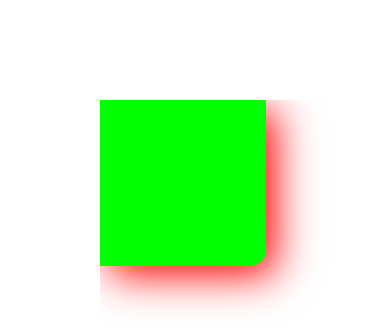
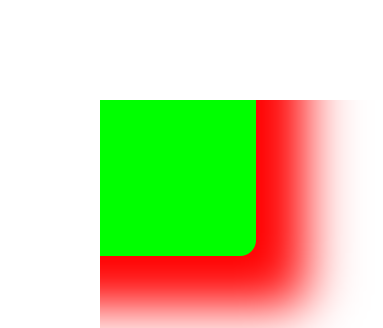
Bug 1514383 - Only clip the outermost Picture in a stacking context, since we sometimes need the inner pixels for filter rendering. r=gw
Differential Revision: https://phabricator.services.mozilla.com/D17595

--HG--
extra : moz-landing-system : lando

Changed region(s): [[0.2585, 0.3049, 0.8903, 1.0]]

diff --git a/webrender/src/display_list_flattener.rs b/webrender/src/display_list_flattener.rs
@@ -1380,7 +1380,7 @@ impl<'a> DisplayListFlattener<'a> {
             leaf_pic_index,
             leaf_composite_mode.into(),
             stacking_context.is_backface_visible,
-            stacking_context.clip_chain_id,
+            ClipChainId::NONE,
             stacking_context.spatial_node_index,
             &mut self.interners,
         );
@@ -1388,6 +1388,8 @@ impl<'a> DisplayListFlattener<'a> {
         if cur_instance.is_chased() {
             println!("\tis a leaf primitive for a stacking context");
         }
+
+        let mut clip_chain = Some(stacking_context.clip_chain_id);
 
         // If establishing a 3d context, the `cur_instance` represents
         // a picture with all the *trailing* immediate children elements.
@@ -1420,11 +1422,21 @@ impl<'a> DisplayListFlattener<'a> {
                 ))
             );
 
+            // If this is going to be the last picture for the stacking context,
+            // then put the clip onto the leaf picture, since this one uses
+            // PictureCompositeKey::Identity and won't have a surface to be
+            // clipped.
+            if stacking_context.composite_ops.filters.is_empty() &&
+               stacking_context.composite_ops.mix_blend_mode.is_none() {
+                cur_instance.clip_chain_id = clip_chain.take().unwrap();
+            }
+
+
             cur_instance = create_prim_instance(
                 current_pic_index,
                 PictureCompositeKey::Identity,
                 stacking_context.is_backface_visible,
-                stacking_context.clip_chain_id,
+                ClipChainId::NONE,
                 stacking_context.spatial_node_index,
                 &mut self.interners,
             );
@@ -1461,7 +1473,7 @@ impl<'a> DisplayListFlattener<'a> {
                 current_pic_index,
                 composite_mode.into(),
                 stacking_context.is_backface_visible,
-                stacking_context.clip_chain_id,
+                ClipChainId::NONE,
                 stacking_context.spatial_node_index,
                 &mut self.interners,
             );
@@ -1505,7 +1517,7 @@ impl<'a> DisplayListFlattener<'a> {
                 blend_pic_index,
                 composite_mode.into(),
                 stacking_context.is_backface_visible,
-                stacking_context.clip_chain_id,
+                ClipChainId::NONE,
                 stacking_context.spatial_node_index,
                 &mut self.interners,
             );
@@ -1514,6 +1526,10 @@ impl<'a> DisplayListFlattener<'a> {
                 println!("\tis a mix-blend picture for a stacking context with {:?}", mix_blend_mode);
             }
         }
+
+        // Set the stacking context clip on the outermost picture in the chain,
+        // unless we already set it on the leaf picture.
+        cur_instance.clip_chain_id = clip_chain.unwrap_or(ClipChainId::NONE);
 
         let has_mix_blend_on_secondary_framebuffer =
             stacking_context.composite_ops.mix_blend_mode.is_some() &&
